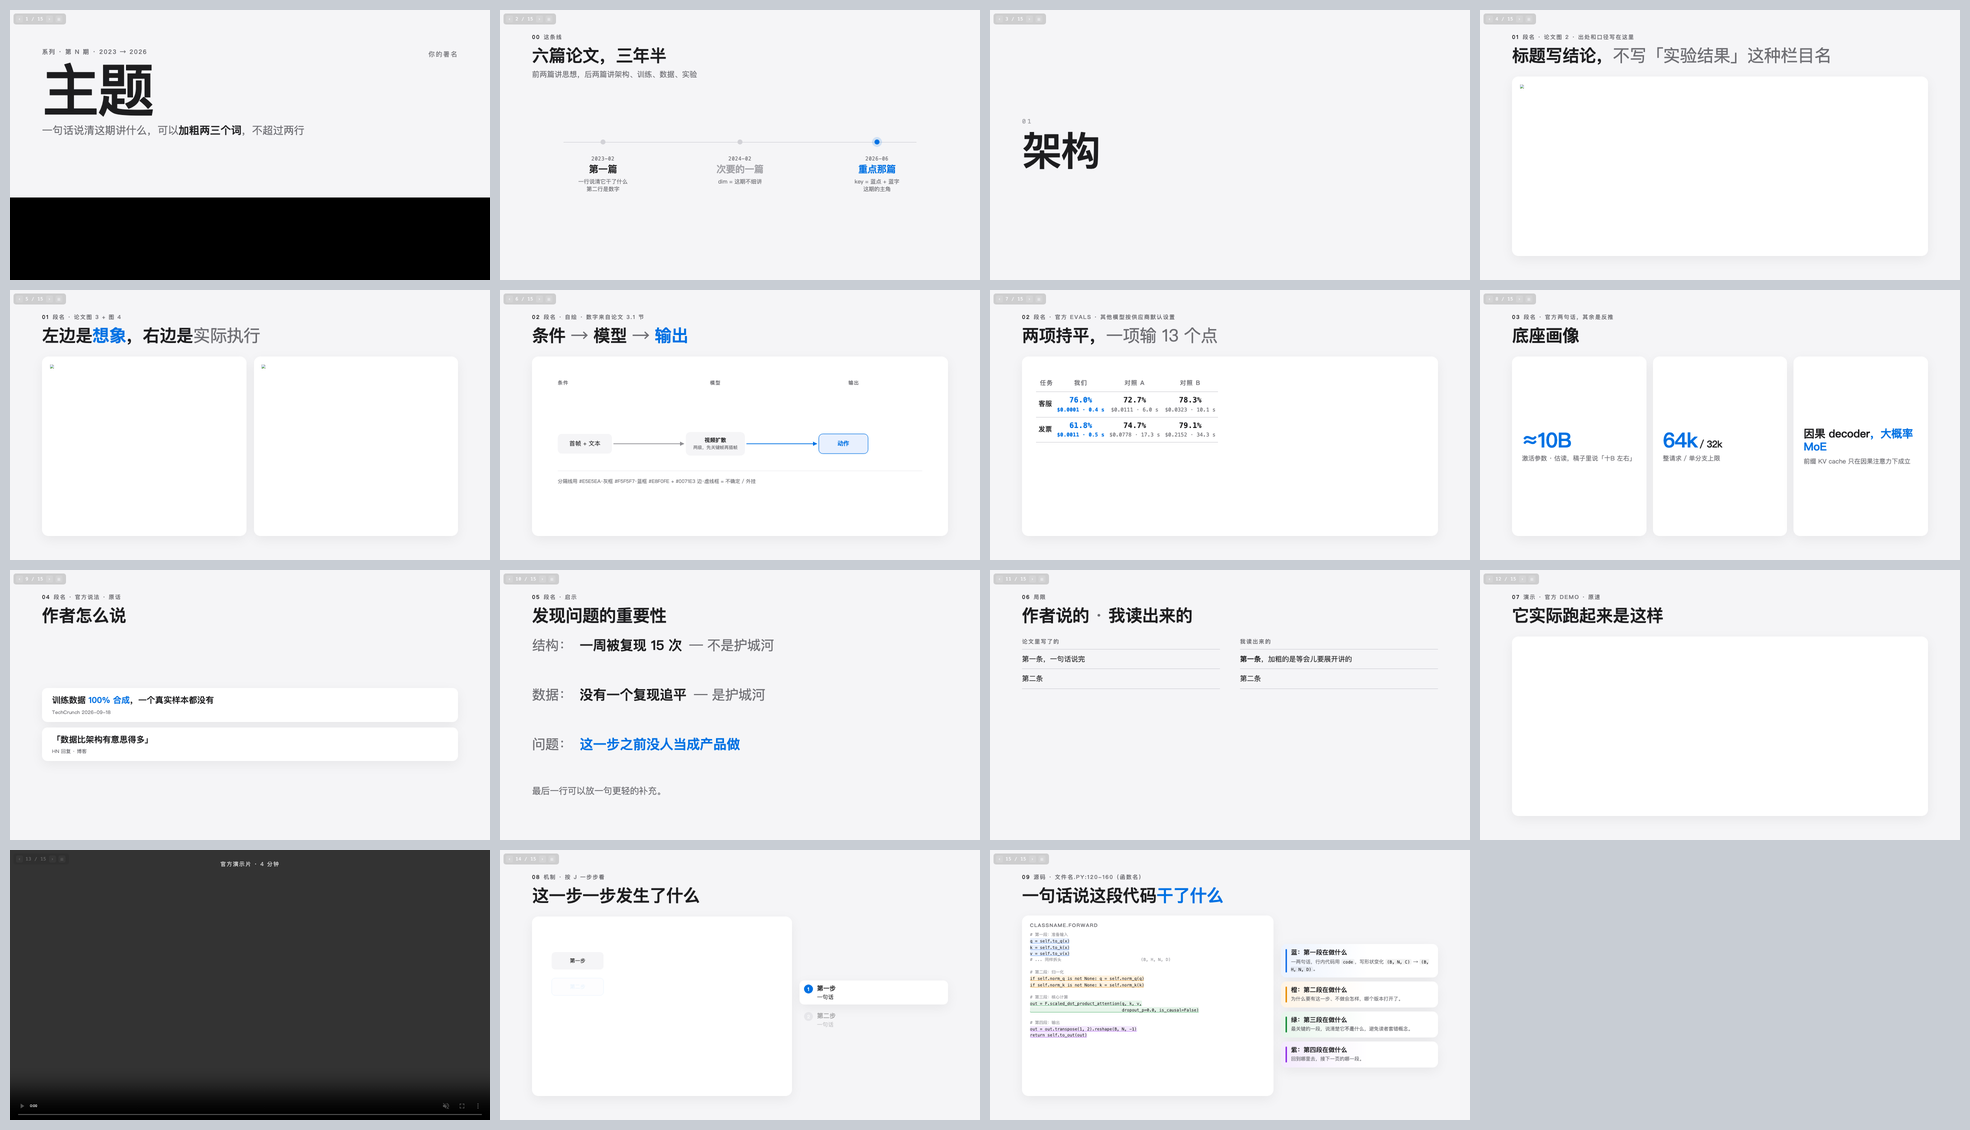
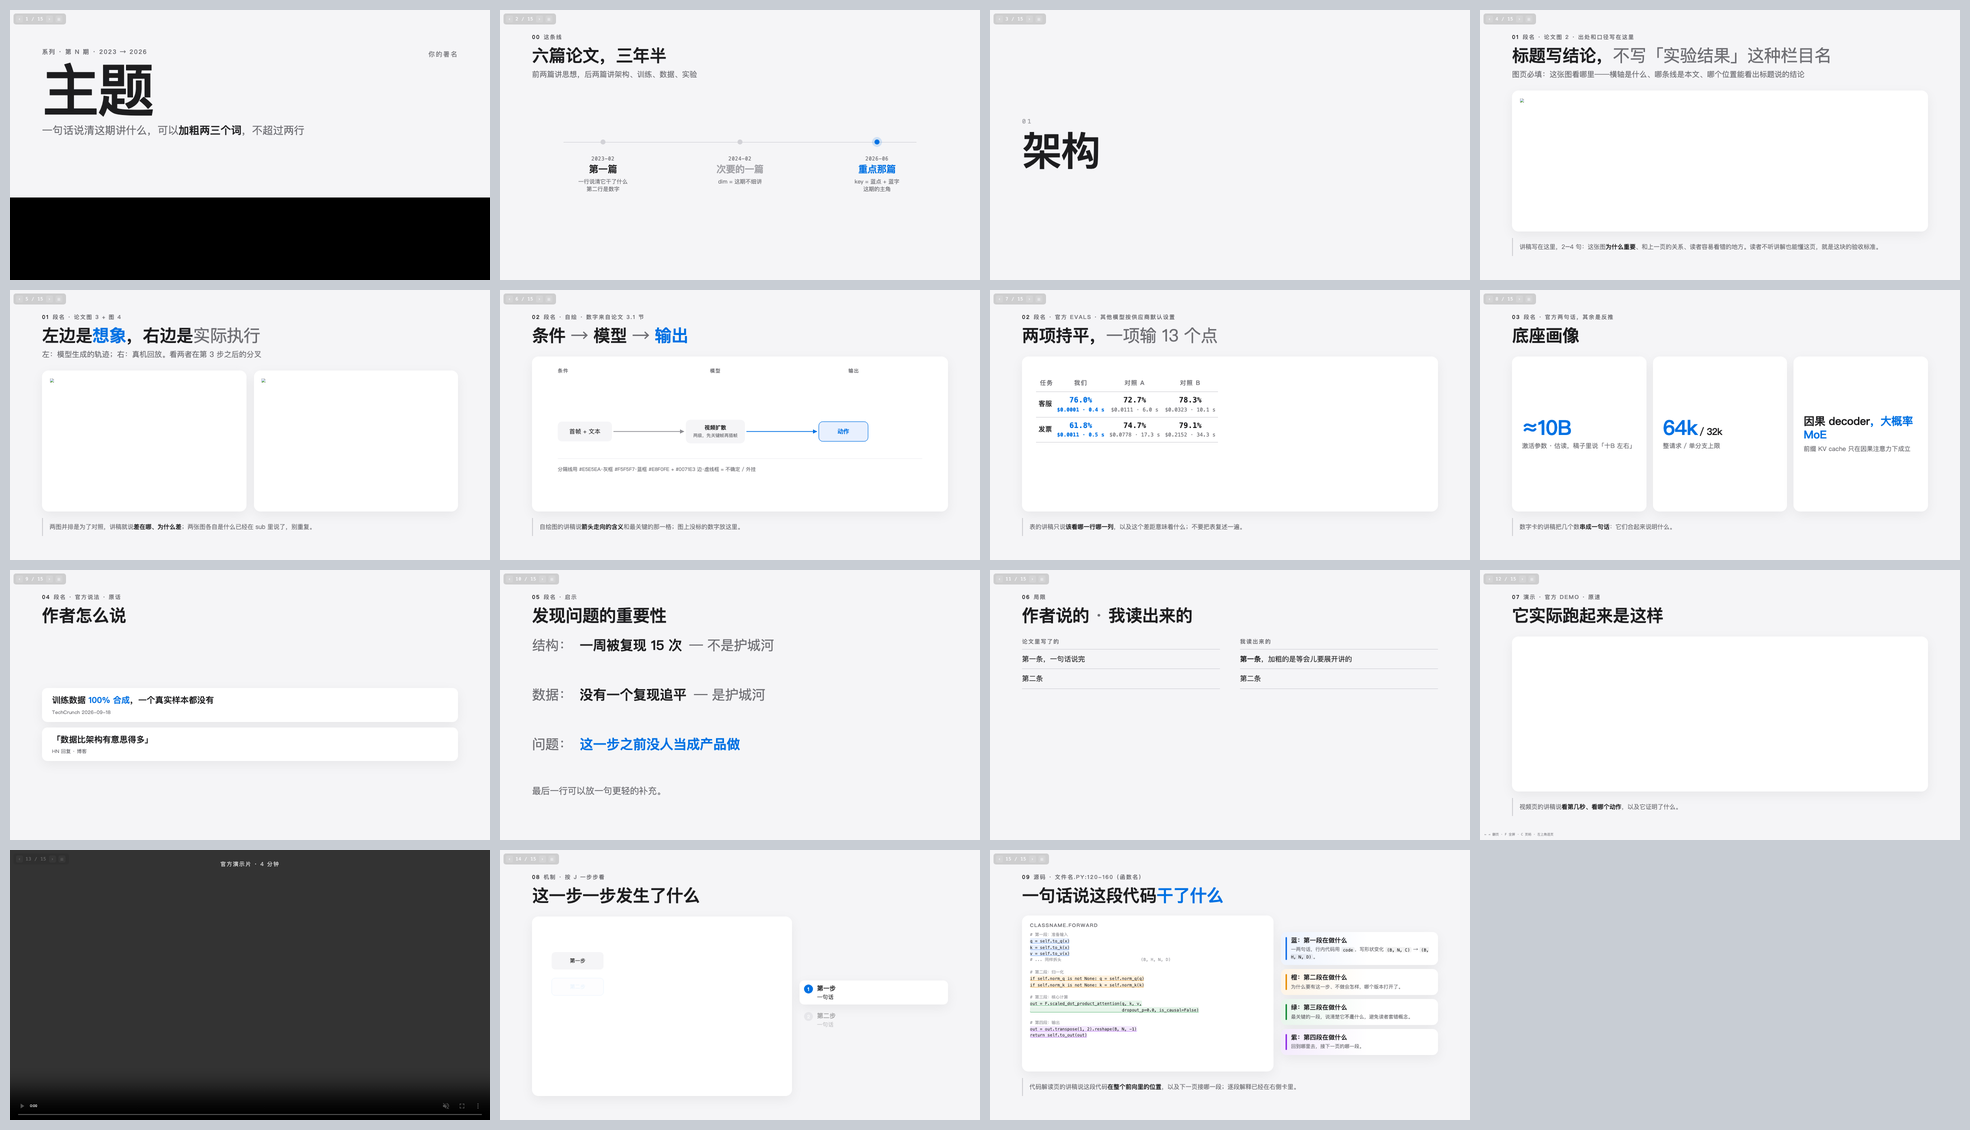
kelip-slide：定位改为直接分享——图页 sub 必填，每页内置 .talk 讲稿块
- 模板新增 .talk（主体下方 2–4 句讲稿，左侧细线），示例页 4/5/6/7/8/12/15 填好范例
- SKILL.md 定为硬规则：图/视频页 .sub 必填写「这张图看哪里」；内容页末尾必有 .talk，
  验收是不看图只读 kicker+标题+sub+talk 也能懂
- customize.md 去掉「加回注释行」段（已内置），只留右下角出处小字
- README / AGENTS.md / UPSTREAM.md 同步

diff --git a/skills/kelip-slide/assets/deck-template.html b/skills/kelip-slide/assets/deck-template.html
@@ -23,6 +23,10 @@ h1{font-size:68px;font-weight:600;letter-spacing:-.012em;line-height:1.15;margin
 h1 .thin{font-weight:400;color:var(--muted)}
 h1 .acc{color:var(--accent)}
 .sub{font-size:30px;color:var(--muted);margin-top:14px;font-weight:400;line-height:1.4}
+/* 讲稿块：主体下方 2–4 句，把本来要口头讲的话写在页上；deck 是直接发出去看的，不录屏 */
+.talk{margin-top:26px;padding:18px 26px;border-left:4px solid var(--line);font-size:24px;color:var(--muted);line-height:1.5;flex:none}
+.talk b{color:var(--ink);font-weight:600}
+.talk .acc{color:var(--accent);font-weight:600}
 /* 图 / 视频 */
 .fig{flex:1;min-height:0;position:relative;margin-top:44px}
 .fig img,.fig video{position:absolute;inset:0;width:100%;height:100%;object-fit:contain}
@@ -254,17 +258,21 @@ svg[data-anim] [data-a].on{opacity:1}
 <section class="slide" data-sec="01 段名" data-title="这页的结论">
   <div class="kicker"><b>01</b>段名 · 论文图 2 · 出处和口径写在这里</div>
   <h1>标题写结论，<span class="thin">不写「实验结果」这种栏目名</span></h1>
+  <div class="sub">图页必填：这张图看哪里——横轴是什么、哪条线是本文、哪个位置能看出标题说的结论</div>
   <div class="fig card"><img src="media/fig_xx.png" alt=""></div>
+  <div class="talk">讲稿写在这里，2–4 句：这张图<b>为什么重要</b>、和上一页的关系、读者容易看错的地方。读者不听讲解也能懂这页，就是这块的验收标准。</div>
 </section>
 
 <!-- ===== 5 两图并排：同一件事的两面（前/后、仿真/真机） ===== -->
 <section class="slide" data-sec="01 段名" data-title="两图对照">
   <div class="kicker"><b>01</b>段名 · 论文图 3 + 图 4</div>
   <h1>左边是<span class="acc">想象</span>，右边是<span class="thin">实际执行</span></h1>
+  <div class="sub">左：模型生成的轨迹；右：真机回放。看两者在第 3 步之后的分叉</div>
   <div class="fig2">
     <div class="fig card"><img src="media/fig_a.png" alt=""></div>
     <div class="fig card"><img src="media/fig_b.png" alt=""></div>
   </div>
+  <div class="talk">两图并排是为了对照，讲稿就说<b>差在哪、为什么差</b>；两张图各自是什么已经在 sub 里说了，别重复。</div>
 </section>
 
 <!-- ===== 6 自绘 SVG：论文图讲不清机制时自己画。viewBox 宽 1600、字号≈屏幕像素 ===== -->
@@ -287,6 +295,7 @@ svg[data-anim] [data-a].on{opacity:1}
     <line x1="60" y1="380" x2="1540" y2="380" stroke="#E5E5EA" stroke-width="1.5"/>
     <text x="60" y="430" font-size="20" fill="#6E6E73">分隔线用 #E5E5EA·灰框 #F5F5F7·蓝框 #E8F0FE + #0071E3 边·虚线框 = 不确定 / 外挂</text>
   </svg></div>
+  <div class="talk">自绘图的讲稿说<b>箭头走向的含义</b>和最关键的那一格；图上没标的数字放这里。</div>
 </section>
 
 <!-- ===== 7 表：数字对照。tbl left wrap = 文字表；tbl num two = 数字 + 小字 ===== -->
@@ -298,6 +307,7 @@ svg[data-anim] [data-a].on{opacity:1}
     <tr><td>客服</td><td class="acc"><b>76.0%</b><br><small>$0.0001 · 0.4 s</small></td><td><b>72.7%</b><br><small>$0.0111 · 6.0 s</small></td><td><b>78.3%</b><br><small>$0.0323 · 10.1 s</small></td></tr>
     <tr><td>发票</td><td class="acc"><b>61.8%</b><br><small>$0.0011 · 0.5 s</small></td><td><b>74.7%</b><br><small>$0.0778 · 17.3 s</small></td><td><b>79.1%</b><br><small>$0.2152 · 34.3 s</small></td></tr>
   </table></div>
+  <div class="talk">表的讲稿只说<b>该看哪一行哪一列</b>，以及这个差距意味着什么；不要把表复述一遍。</div>
 </section>
 
 <!-- ===== 8 数字卡：一页放 4–6 个事实。.stat.text 放的是短语不是数字 ===== -->
@@ -309,6 +319,7 @@ svg[data-anim] [data-a].on{opacity:1}
     <div class="stat"><div class="n">64k<small>/ 32k</small></div><div class="l">整请求 / 单分支上限</div></div>
     <div class="stat text"><div class="n">因果 decoder<span class="acc">，大概率 MoE</span></div><div class="l">前缀 KV cache 只在因果注意力下成立</div></div>
   </div>
+  <div class="talk">数字卡的讲稿把几个数<b>串成一句话</b>：它们合起来说明什么。</div>
 </section>
 
 <!-- ===== 9 原话卡：引用官方 / 作者原话，出处放 .src 小字（卡内，不是页脚） ===== -->
@@ -350,6 +361,7 @@ svg[data-anim] [data-a].on{opacity:1}
   <div class="kicker"><b>07</b>演示 · 官方 demo · 原速</div>
   <h1>它实际跑起来是这样</h1>
   <div class="fig card"><video muted loop playsinline preload="auto" src="media/demo.mp4"></video></div>
+  <div class="talk">视频页的讲稿说<b>看第几秒、看哪个动作</b>，以及它证明了什么。</div>
 </section>
 
 <!-- ===== 13 满屏播片页：整段官方演示片，带 controls ===== -->
@@ -403,6 +415,7 @@ svg[data-anim] [data-a].on{opacity:1}
       <div class="note p"><div class="h">紫：第四段在做什么</div><div class="d">回到哪里去，接下一页的哪一段。</div></div>
     </div>
   </div>
+  <div class="talk">代码解读页的讲稿说这段代码<b>在整个前向里的位置</b>，以及下一页接哪一段；逐段解释已经在右侧卡里。</div>
 </section>
 
 </div>

diff --git a/skills/kelip-slide/SKILL.md b/skills/kelip-slide/SKILL.md
@@ -6,7 +6,7 @@ description: 用单文件 HTML 做讲解幻灯片——1920×1080，苹果 keyno
 # 单文件 HTML 讲解 deck
 
 一个 `deck.html` + 一个 `media/` 目录，Chrome 双击打开，方向键翻页，断网可用。
-为**对着屏幕讲**设计：录屏清晰、机制图想画就画、视频能嵌、改一行字不用重新导出。
+为**直接发出去看**设计：读者没有讲解、没有画外音，一页要自己说清楚。机制图想画就画、视频能嵌、改一行字不用重新导出。
 
 这个 skill 固定的是**版式框架**（CSS 变量、舞台缩放、导航、键位、图卡自适应、渲染自查）。
 **内容怎么排是建议，不是规矩**——下面标了「建议」的段落都可以按项目需要推翻；
@@ -40,8 +40,9 @@ cp ~/.claude/skills/kelip-slide/assets/render_preview.py ~/.claude/skills/kelip-
 ```
 kicker    <b>02</b>段名 · 这页的出处 / 口径 / 限定     22px 灰，大写间距
 h1        标题                                        68px 黑
-sub       可选，一行补充                              30px 灰
+sub       一行补充，图页必填（这张图看哪里）            30px 灰
 主体      图 / 自绘 SVG / 表 / 数字卡 / 大字，占满剩下的空间
+talk      讲稿块，每个内容页必填，2–4 句                24px 灰，左侧细线
 ```
 
 - **图卡自己贴合图片比例**：`.fig.card` 的尺寸由 JS（`fitFigs`）按图片真实宽高算，
@@ -89,6 +90,20 @@ sub       可选，一行补充                              30px 灰
 - kicker 写文件名和行号区间（`diffusers attention_processor.py:1436-1498`），标题写这段代码的结论，
   不写「代码解读」四个字。
 
+### 图页 sub 必填、每页带讲稿（硬规则，不是建议）
+
+这个 deck 是**发出去让人自己看**的，不录屏、没有人在旁边讲。所以：
+
+- **凡是主体是图 / 视频的页**（一图页、两图并排、图片网格、视频页、自绘 SVG），`.sub` 必填，
+  一行写「这张图看哪里」：横轴纵轴是什么、哪条线是本文、在哪个位置能看出标题说的结论。
+  标题说结论，sub 指路，缺一个读者就得猜。
+- **每个内容页末尾放一块 `.talk`**（封面、过渡页、满屏播片除外），2–4 句、≤ 120 字，
+  写的是本来要口头讲的话：这页为什么重要、和上一页的关系、容易看错的地方。
+  `<b>` 加粗关键词，`<span class="acc">` 点一个数。**不重复标题和 sub 已经说过的**。
+- `.talk` 放在主体块之后、`</section>` 之前，`flex:none`，图卡会自动让出高度。
+  讲稿超过 4 句说明这页塞了两个点，拆页。
+- 验收：把 kicker + 标题 + sub + talk 单独读一遍，不看图也知道这页在说什么，才算过。
+
 ## 自查回路（这一步别跳）
 
 有自绘 SVG 的 deck 先跑箭头检查，报 ✗ 的全部改掉再截图：
@@ -117,16 +132,14 @@ headless Chrome 逐页截 1920×1080，再拼成 4 列缩略图。**然后亲自
 - **标题写结论，不写栏目名**。「两端可信，中间不可信」好过「校准实验」；
   「客服持平，发票输 13 个点」好过「实验结果」。标题里 `<span class="thin">` 压灰次要的半句，
   `<span class="acc">` 点一个数字或一个词——一页最多点一处。
-- **一页一个点**，页面装不下的话搬进讲稿，而不是塞进页面。对着屏幕讲的时候，
-  一页的信息量 ≈ 能讲 20–60 秒的量。
+- **一页一个点**，装不下就拆页，不塞。一页的信息量 ≈ 读 20–60 秒的量。
 - **主体块跟素材走**：有现成好图就用图；没有现成图（产品 / 新闻 / 自家工作）就自绘 SVG。
   实测两种分布都正常——论文类 42 页里 22 页原图 8 页自绘，产品类 42 页里 16 页自绘 1 页图。
 - **结构**：封面 → 背景 / 时间线 2–3 页 → 分段主体（每段 4–6 页）→ 局限 / 启示，讲完就停。
   **不做「小结」「收尾」「谢谢」页**——复述前面的标题没有信息量，最后一页就是最后一个有内容的点。
   23 页（单主题）到 42 页（一次讲五六个）都正常；段数 ≥ 6 时每段前加一页 `.divider` 过渡。
-- **模板默认不放**页脚出处小字和底部注释行，页面只留小标 + 标题 + 主体，留白多一点。
-  出处建议写进 kicker（`· 论文图 2`、`· 官方文档`、`· 2026-09-22 查`）或单独一份材料文件。
-  想要页脚小字 / 注释行，`references/customize.md` 里有现成 CSS，加回来就是。
+- 出处写进 kicker（`· 论文图 2`、`· 官方文档`、`· 2026-09-22 查`）。想要右下角出处小字，
+  `references/customize.md` 里有现成 CSS。
 - 估读的数字标 `≈`。
 
 ## 交付物
@@ -137,12 +150,12 @@ deck/
   media/               图片、视频，全部本地化（deck 里不引外链）
   render_preview.py    渲染自查
   check_arrows.py      箭头检查
-  说明.md              页码对应表 + 自绘页画了什么 + 素材来源 + 重跑命令
+  说明.md              页码对应表 + 自绘页画了什么 + 素材来源 + 重跑命令（讲稿不放这里，讲稿在页上的 .talk）
   预览-全部页面.png     contact sheet
 ```
 
 `说明.md` 里那张「页 | 段 | 内容 | 图」的表最好**在写 HTML 之前就列出来**——
-它既是施工图，也是讲稿的骨架。
+它就是施工图。
 
 ## 常见坑
 

diff --git a/skills/kelip-slide/references/customize.md b/skills/kelip-slide/references/customize.md
@@ -40,25 +40,22 @@ base64，否则离线打开会掉回系统字体。
 竖屏（1080×1920，手机端分享）同理，但 `.fig2` 两图并排、`.stats` 三列这些横向布局
 要改成单列。
 
-## 把页脚小字 / 底部注释行加回来
+## 右下角出处小字
 
-模板默认不放，因为一页只留小标 + 标题 + 图最干净。要的话把这两段加进 `<style>`：
+底部讲稿块 `.talk` 模板已经内置（每个内容页必填，见 `SKILL.md`），不用再加。
+想另外要一行右下角出处小字，把这段加进 `<style>`：
 
 ```css
-/* 底部一句注释 */
-.note{margin-top:30px;font-size:29px;color:var(--muted);text-align:center;line-height:1.45}
-.note b{color:var(--ink);font-weight:600}
 /* 右下角出处小字 */
 .src{position:absolute;right:128px;bottom:40px;font-family:var(--mono);
      font-size:17px;color:var(--faint);letter-spacing:.06em}
 ```
 
 ```html
-<div class="note">一句话把这页的结论说完，<b>加粗关键词</b></div>
 <div class="src">Fig.6 · Sec.IV-A · 估读</div>
 ```
 
-加了 `.note` 的话，`.slide` 的下 padding 要从 96px 收到 84px，不然图会被挤矮。
+不想要讲稿块（比如确实要录屏）就把每页的 `.talk` 删掉，CSS 留着无害。
 
 ## 常驻页码
 

diff --git a/skills/kelip-slide/AGENTS.md b/skills/kelip-slide/AGENTS.md
@@ -10,8 +10,9 @@ Chrome 打开键盘翻页。
 3. **排完必须跑 `assets/render_preview.py` 把每页渲染成图，自己看一遍再交付**——
    版式问题（图顶边、白卡空一半、表格挤成一团）只有看图才发现得了。
    有自绘 SVG 的再跑 `assets/check_arrows.py deck.html`，✗ 全部改掉。
-4. **讲代码的页一律用「代码解读页」**（`.cx`：左代码色块、右同色注释卡、上下顺序对齐），规则在 `SKILL.md`。
-5. 需要自绘机制图看 `references/svg.md`，处理素材看 `references/media.md`，
+4. **图页 `.sub` 必填，每个内容页末尾必有 `.talk` 讲稿块**——deck 是发出去看的，没人讲解，规则在 `SKILL.md`。
+5. **讲代码的页一律用「代码解读页」**（`.cx`：左代码色块、右同色注释卡、上下顺序对齐），规则在 `SKILL.md`。
+6. 需要自绘机制图看 `references/svg.md`，处理素材看 `references/media.md`，
    改配色 / 画幅 / 加回页脚小字看 `references/customize.md`。
 
 `SKILL.md` 里标了「建议」的内容规则是默认值，项目自己的风格约定优先。

diff --git a/skills/kelip-slide/UPSTREAM.md b/skills/kelip-slide/UPSTREAM.md
@@ -22,9 +22,11 @@
 4. **新增「代码解读页」页型 `.cx`**（14 → 15）：左边代码按段落色块高亮（蓝 / 橙 / 绿 / 紫），
    右边同色注释卡，色块从上到下的顺序与卡片顺序一一对应。`SKILL.md` 把它定为硬规则：
    凡是讲代码的页都用这种排法。样式取自本人一份实际 deck。
-5. 安装说明改指向本仓库；示例图 `assets/page-types.png` 按 15 种页型重新渲染。
+5. **定位从「录屏讲解」改为「直接分享」**：图页 `.sub` 必填（这张图看哪里），每个内容页末尾加
+   `.talk` 讲稿块（把口头要讲的 2–4 句写在页上），模板 CSS 内置；`SKILL.md` 定为硬规则。
+6. 安装说明改指向本仓库；示例图 `assets/page-types.png` 按 15 种页型重新渲染。
 
-改动 2–4 是本人使用偏好，不代表上游立场，上游不一定会接受。
+改动 2–5 是本人使用偏好，不代表上游立场，上游不一定会接受。
 
 ## 许可证处理
 

diff --git a/skills/kelip-slide/README.md b/skills/kelip-slide/README.md
@@ -3,7 +3,8 @@
 > 派生自 [skJack/kelip-slide](https://github.com/skJack/kelip-slide)（MIT），本地改动见 [UPSTREAM.md](UPSTREAM.md)。
 
 用**单个 HTML 文件**做讲解幻灯片：1920×1080，浅灰底 + 黑字 + 一个强调色，一页一张大图，
-文字少、页不排满。Chrome 双击就能放，方向键翻页，断网可用，适合录屏讲解和技术分享。
+文字少、页不排满。Chrome 双击就能放，方向键翻页，断网可用。每页带一行「看哪里」和一块讲稿，
+**发给别人自己看也能懂**，不依赖录屏或现场讲解。
 
 **一套模板 + 一份写给 AI Agent 看的规范。** 给你的 agent（Claude Code、Cursor、Codex、
 Copilot、任何能读文件改文件的）指一下这个目录，说「做一个讲 X 的 deck」，它就按这套版式搭；
